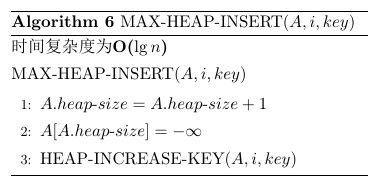
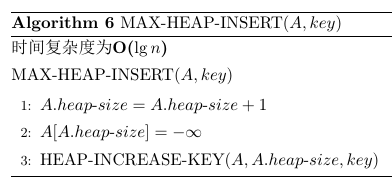
修改算法错误

diff --git a/Heapsort/heapsort.tex b/Heapsort/heapsort.tex
@@ -87,14 +87,14 @@
 	\end{algorithm}	
 
 	\begin{algorithm}
-	\caption{MAX-HEAP-INSERT($A,i,key$)}
+	\caption{MAX-HEAP-INSERT($A, key$)}
 	时间复杂度为\textbf{O($\lg n$)}
 	
-	MAX-HEAP-INSERT($A,i,key$)
+	MAX-HEAP-INSERT($A,key$)
 		\begin{algorithmic}[1]
 			\State $A.heap$-$size = A.heap$-$size + 1$
 			\State $A[A.heap$-$size] = -\infty$
-			\State HEAP-INCREASE-KEY($A,i,key$)
+			\State HEAP-INCREASE-KEY($A,A.heap$-$size,key$)
 		\end{algorithmic}
 	\end{algorithm}	
 \end{document}
